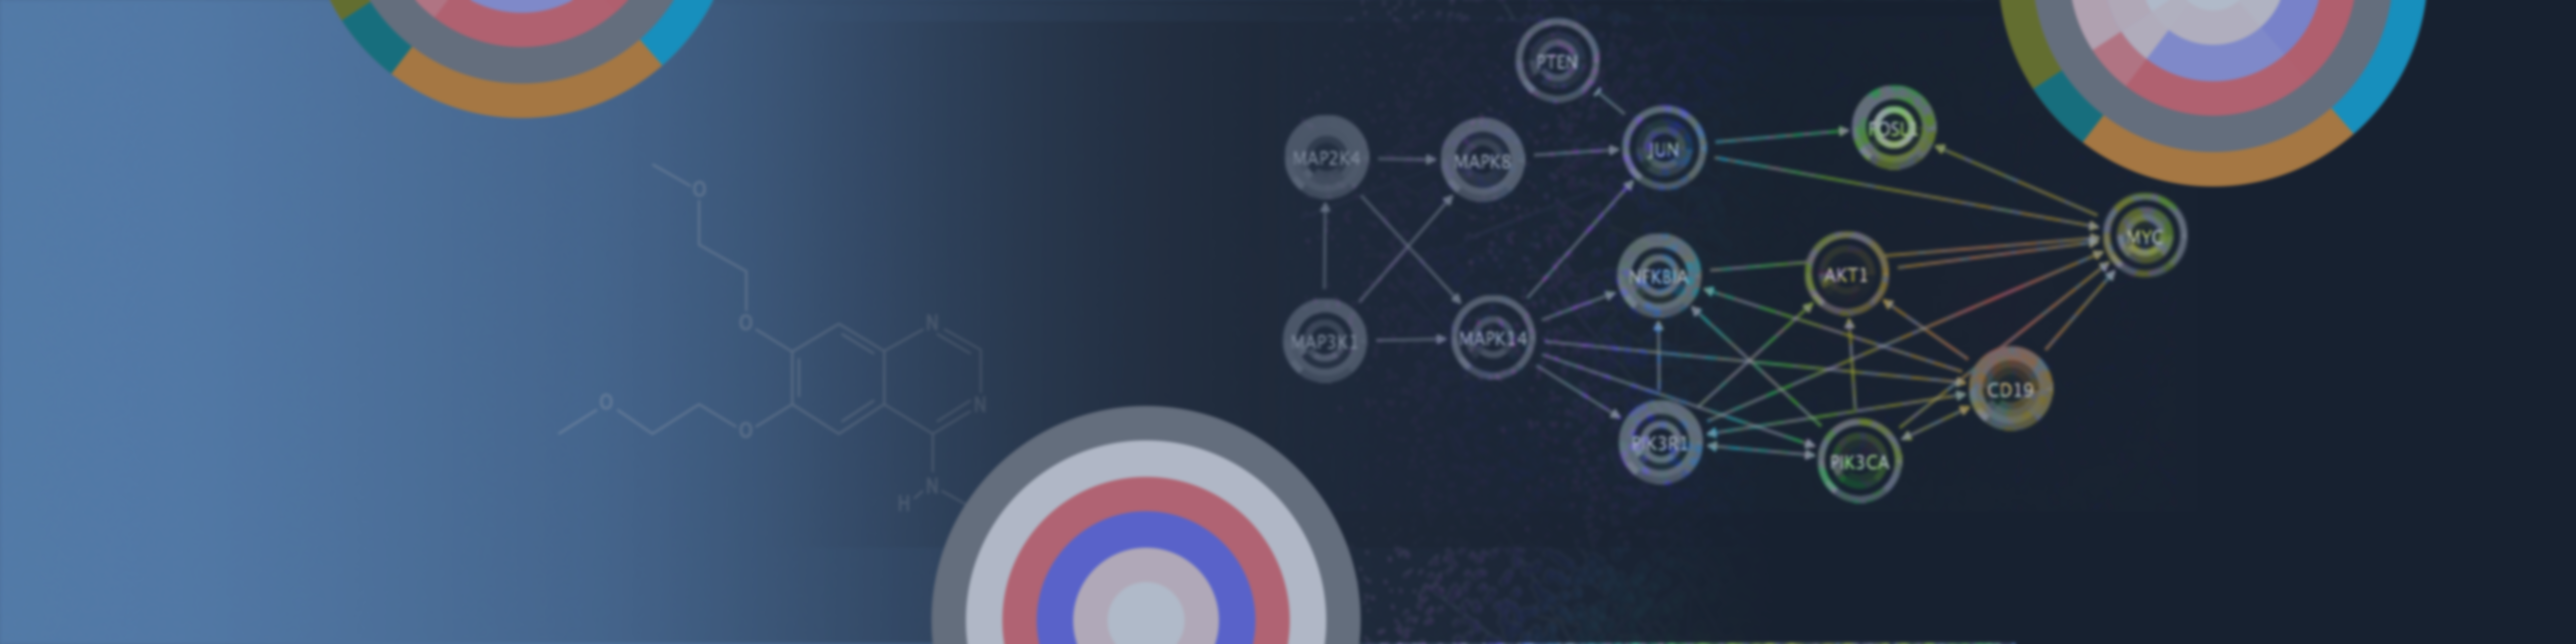
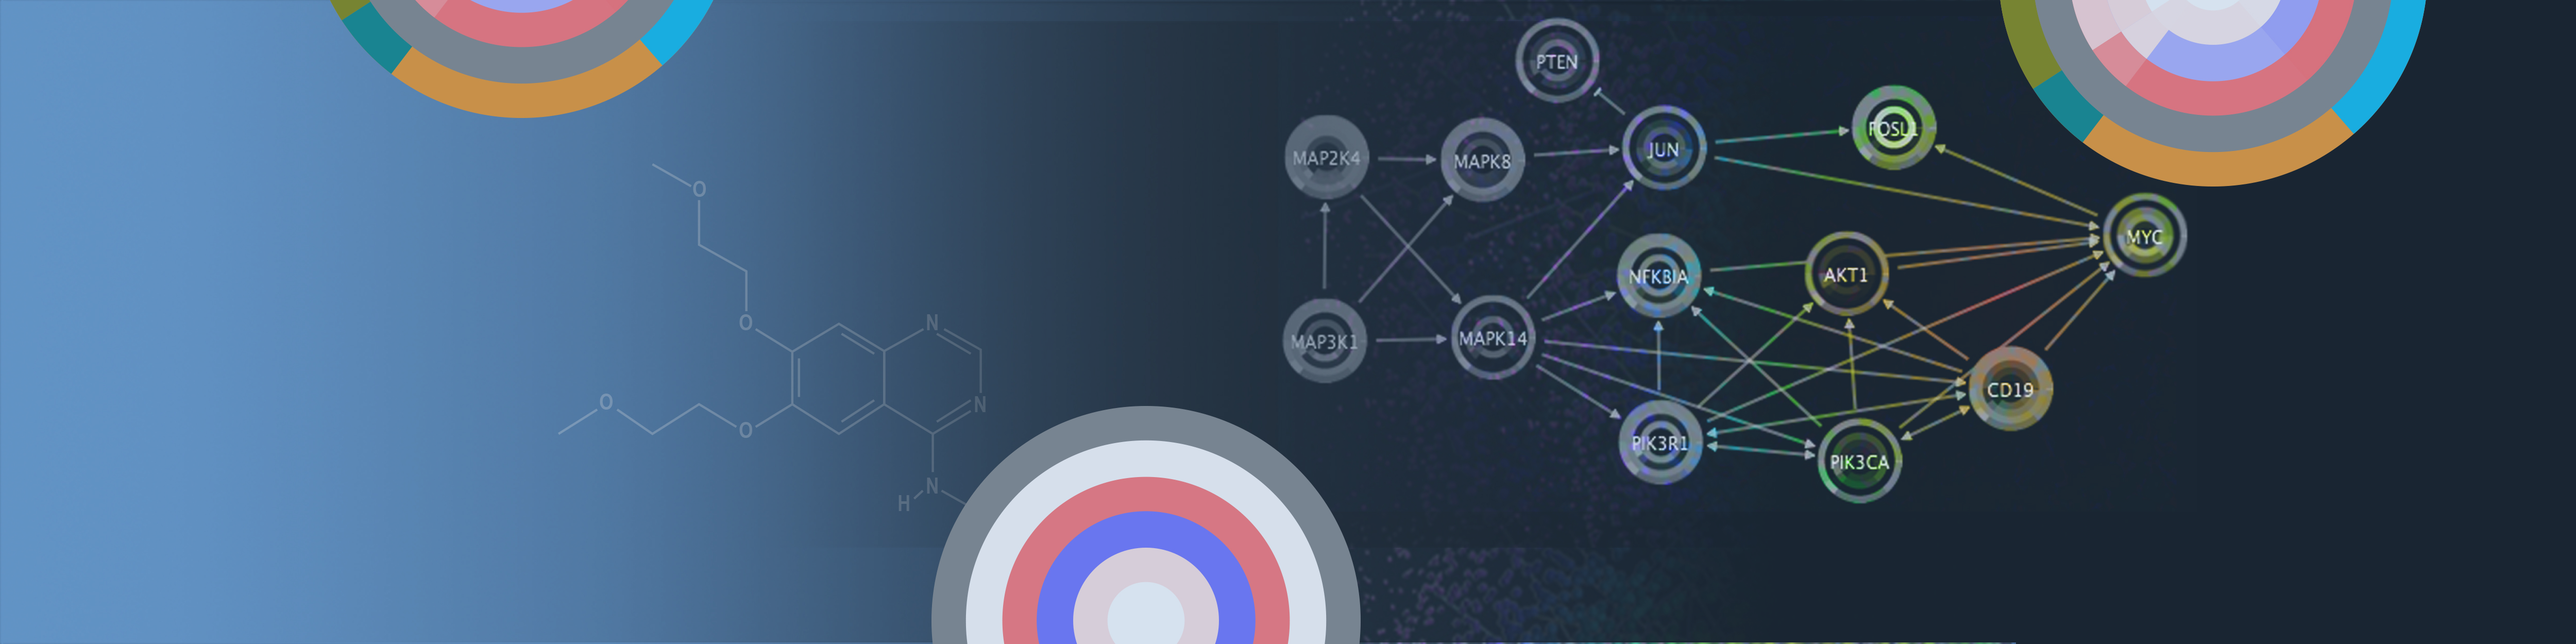
Change landing page color.

diff --git a/client/views/HomeView/HomeView.scss b/client/views/HomeView/HomeView.scss
@@ -1,28 +1,23 @@
 @import 'variables';
 
+$font-white: #f1f1f1;
+
 @keyframes from-bottom {
   0% { opacity: 0; transform: translate3d(0, 10px, 0); }
   75% { opacity: 0; transform: translate3d(0, 10px, 0); }
   100% { opacity: 1; transform: translate3d(0, 0, 0); }
 }
 
-// .wrapper {
-// }
-
 .banner {
   background-position: 0 2.2rem;
   background-repeat: no-repeat;
-  // height: 31rem;
   background-size: cover;
   padding: 4rem .9375rem 3rem .9375rem;
   position: relative;
   text-align: center;
 
   img {
-    width: 80%;
-    @media (min-width: 600px) {
-      width: 540px;
-    }
+    width: 240px;
   }
 
 }
@@ -43,7 +38,7 @@
 $text-shadow-color: #051933;
 
 .lead {
-  color: $yellow;
+  color: $font-white;
   font-size: 1.2rem;
   font-weight: 400;
   margin-bottom: 2rem;
@@ -65,14 +60,14 @@ $btn-width: 16.25rem;
 .btn-discover,
 .btn-td {
   background-color: $brand-primary;
-  border-color: $yellow;
-  color: $yellow;
+  border-color: $font-white;
+  color: $font-white;
   font-size: 1.25rem;
   font-weight: 500;
   padding: 1rem 2rem;
   width: 100%;
   &:hover {
-    background-color: $yellow;
+    background-color: $font-white;
     color: $off-black;
   }
 
@@ -97,23 +92,6 @@ $btn-width: 16.25rem;
 .center {
   text-align: center;
   width: 100%;
-}
-
-.btn-lincs {
-  border-color: $brand-primary;
-  color: $brand-primary;
-  margin-bottom: 1rem;
-  margin-top: .5rem;
-
-  @media (max-width: 544px) {
-    width: 100%;
-  }
-
-  &:hover {
-    background-color: $brand-primary;
-    border-color: $brand-primary;
-    color: $white;
-  }
 }
 
 .content {

diff --git a/client/views/CommunityView/Workshops/index.js b/client/views/CommunityView/Workshops/index.js
@@ -21,7 +21,7 @@ export class Workshops extends Component {
       <div className={styles.wrapper}>
         <PageBanner
           title="Workshops"
-          subTitle="The Consortium holds many workshops for LINCS-related opportunities"
+          subTitle="Members of the Consortium conduct LINCS-related workshops"
         />
         <div className="container">
           <div className="row">

diff --git a/client/views/HomeView/index.js b/client/views/HomeView/index.js
@@ -12,7 +12,7 @@ import { initialCategories as categories } from '../PublicationsView';
 import styles from './HomeView.scss';
 
 // Images
-import bannerImg from './backgroundps1.png';
+import bannerImg from './background.png';
 import cubeImg from './cube.png';
 
 const mapStateToProps = (state) => ({
